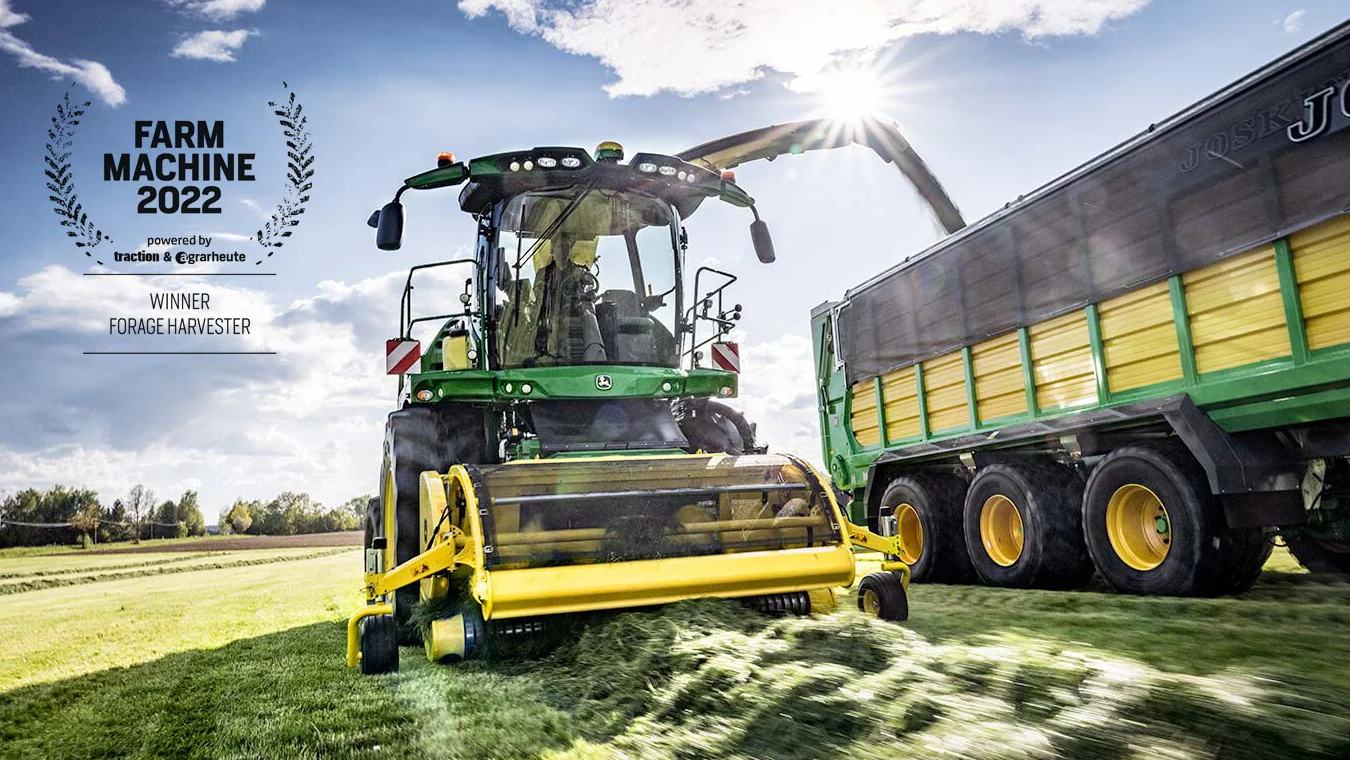
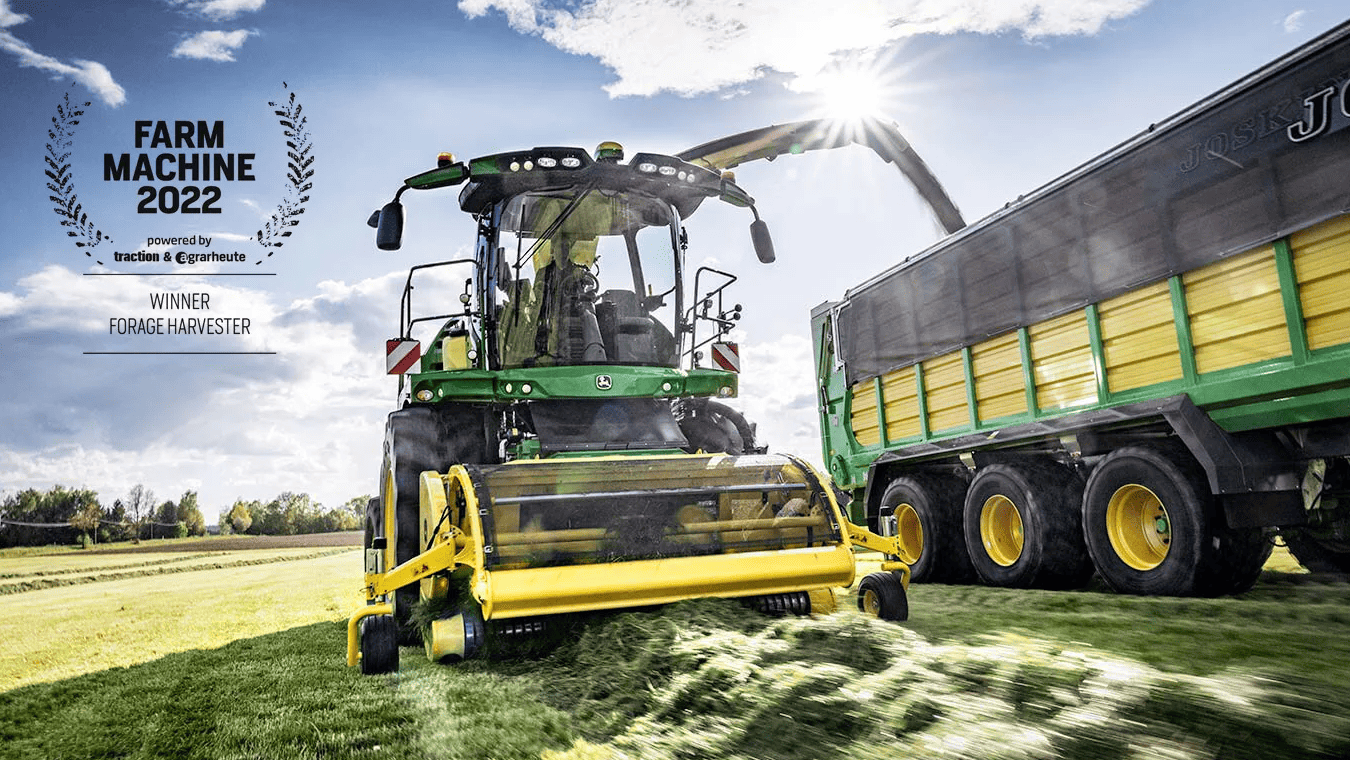
Cut on everything

diff --git a/website/src/template/index-carousel.php b/website/src/template/index-carousel.php
@@ -7,7 +7,7 @@
         </div>
         <div class="carousel-inner">
             <div class="carousel-item active">
-                <img src="resources/slides/johndeere.png" class="d-block w-100" alt="Hay and forage harvester at work.">
+                <img src="resources/products/jd-9900i.png" class="d-block w-100" alt="Hay and forage harvester at work.">
                 <div class="carousel-caption">
                     <h1>They'll see you in town.</h1>
                 </div>
